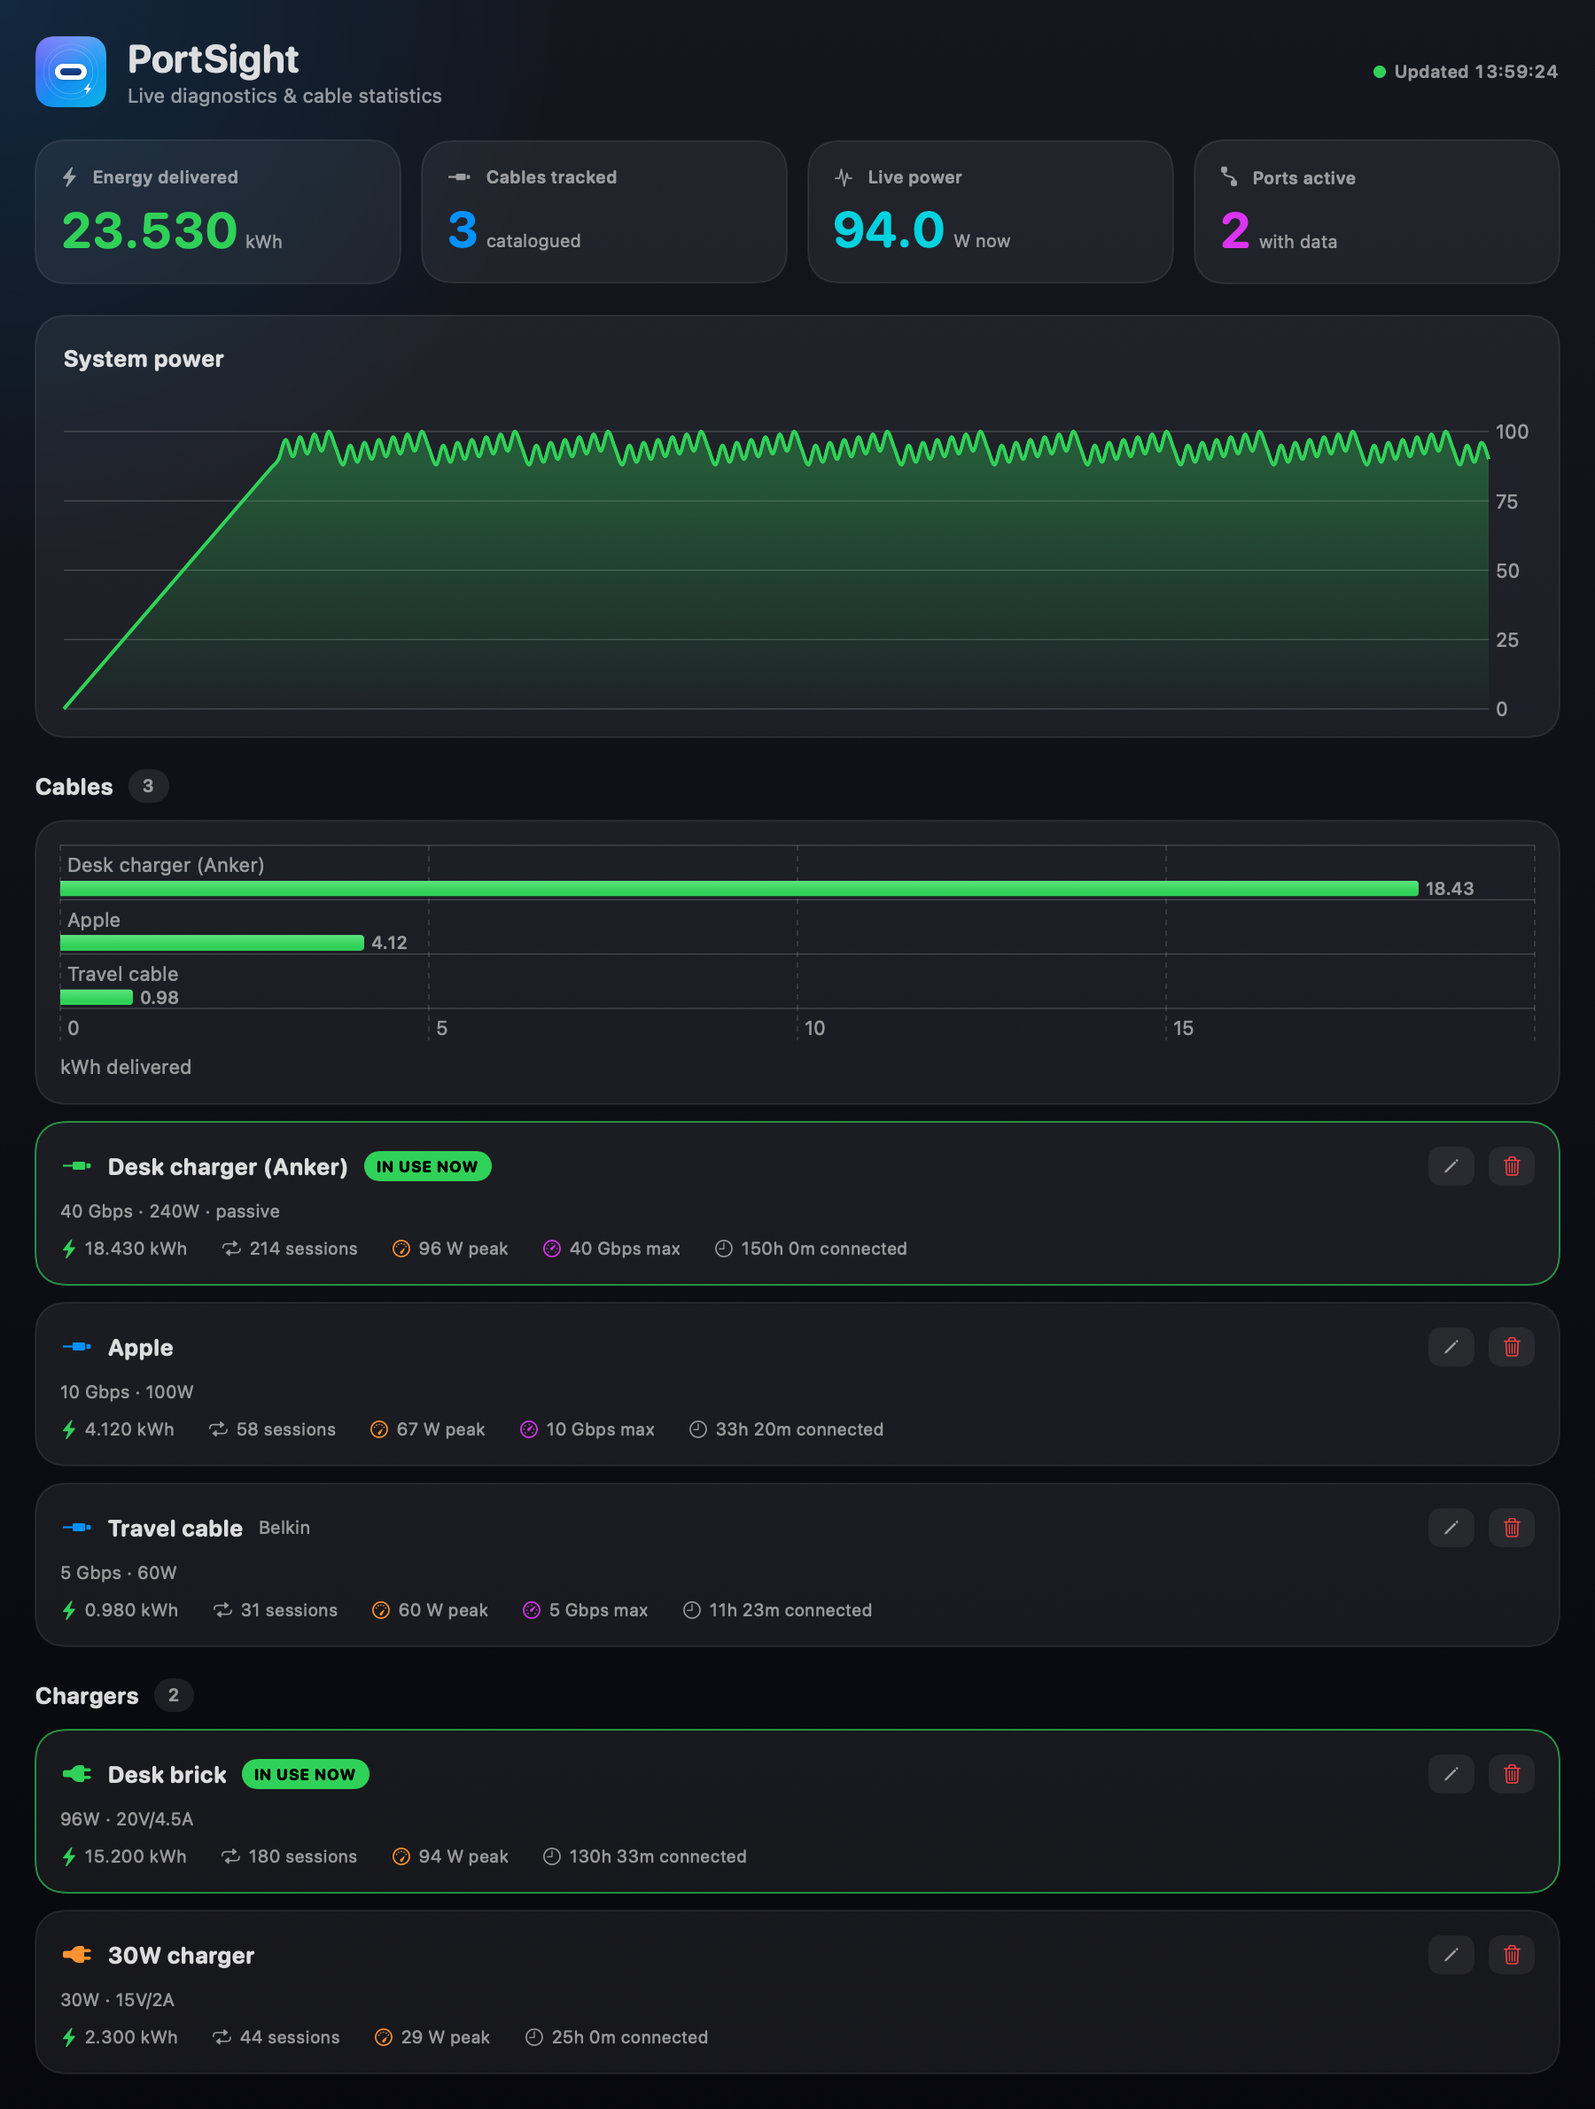
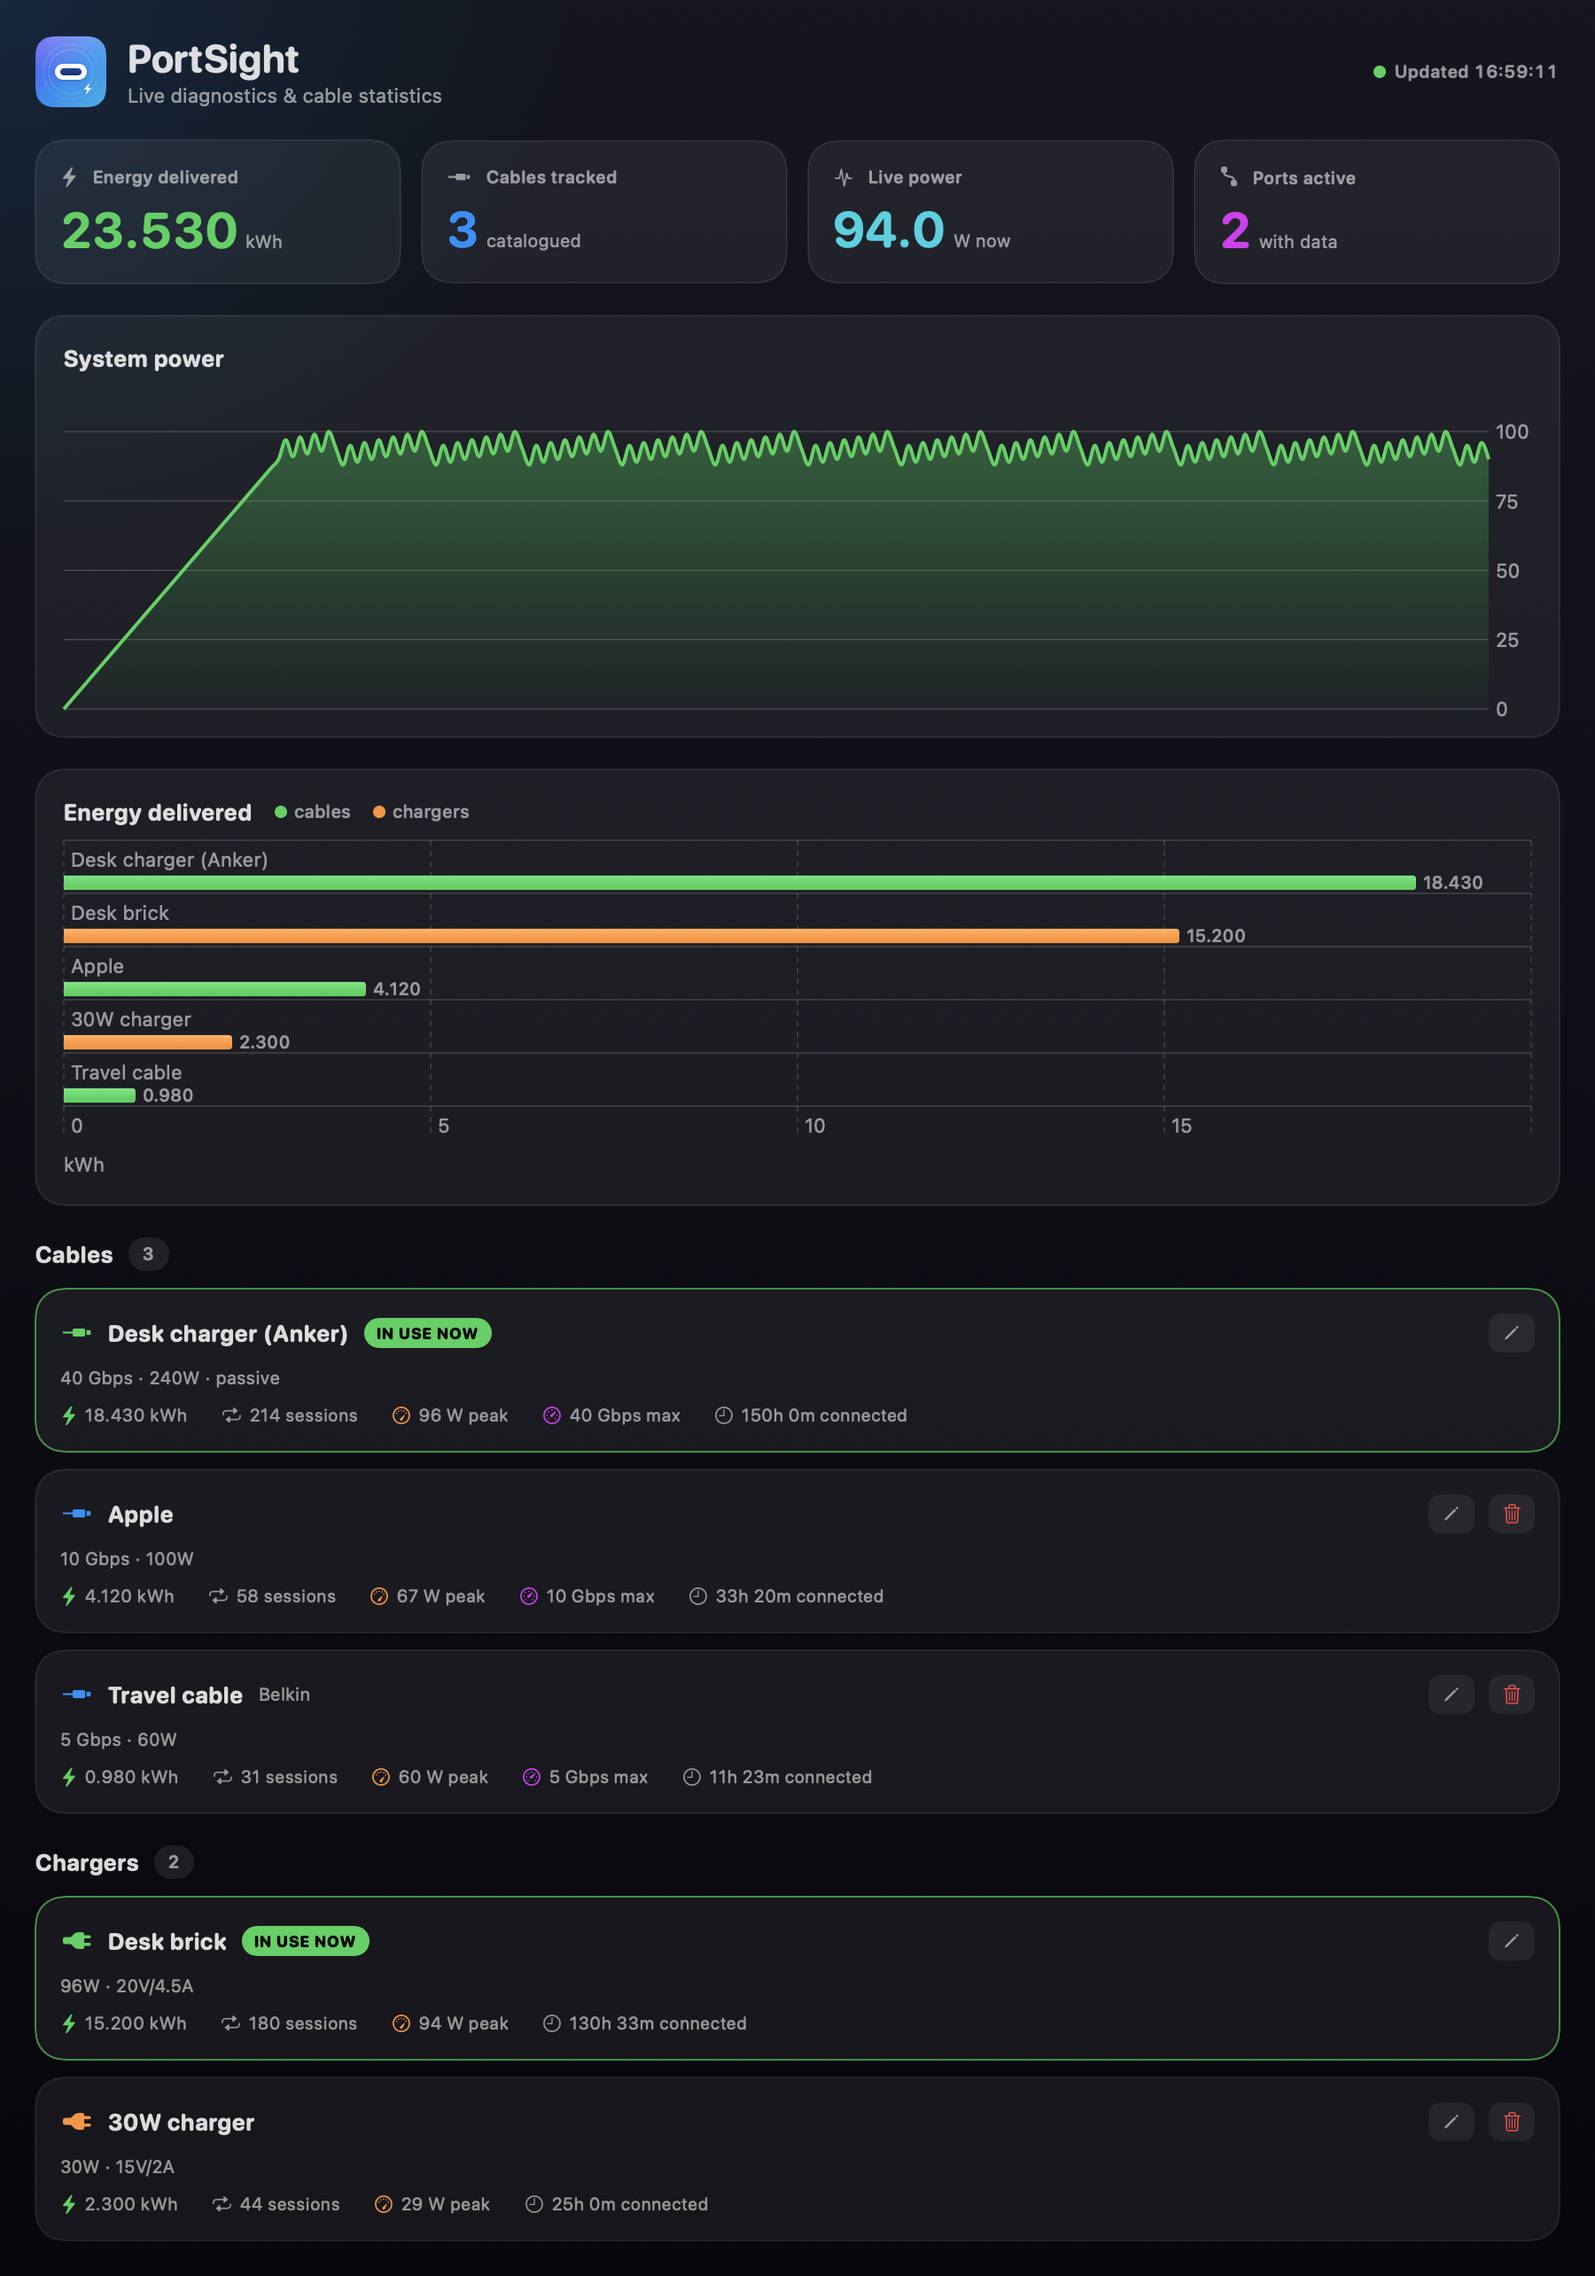
Fix charger dedup (stable VID+PID key + auto-clean); block deleting the in-use cable/charger; combined cables+chargers energy chart

diff --git a/Sources/CableProUI/DashboardView.swift b/Sources/CableProUI/DashboardView.swift
@@ -33,6 +33,7 @@ public struct DashboardView: View {
             header
             statsRow
             powerChartCard
+            energyChartCard
             cablesSection
             chargersSection
         }
@@ -139,25 +140,62 @@ public struct DashboardView: View {
                     .frame(maxWidth: .infinity, alignment: .leading)
                     .padding(20).cardSurface()
             } else {
-                // Energy bar chart across cables.
-                Chart(store.all) { rec in
-                    BarMark(x: .value("kWh", rec.totalEnergyKWh),
-                            y: .value("Cable", rec.displayName))
-                        .foregroundStyle(.green.gradient)
-                        .annotation(position: .trailing) {
-                            Text(String(format: "%.2f", rec.totalEnergyKWh))
-                                .font(.caption2).foregroundStyle(.secondary)
-                        }
-                }
-                .chartXAxisLabel("kWh delivered")
-                .frame(height: CGFloat(store.all.count) * 34 + 30)
-                .padding(14).cardSurface()
-
                 ForEach(sortedCables) { rec in
                     CableRow(record: rec, store: store,
                              isConnected: model.connectedCableKeys.contains(rec.fingerprint))
                 }
             }
+        }
+    }
+
+    // MARK: energy delivered (cables + chargers)
+
+    struct EnergyBar: Identifiable {
+        let id: String
+        let label: String
+        let kWh: Double
+        let isCharger: Bool
+    }
+
+    private var energyBars: [EnergyBar] {
+        let cables = store.all.map {
+            EnergyBar(id: "cable-\($0.fingerprint)", label: $0.displayName,
+                      kWh: $0.totalEnergyKWh, isCharger: false)
+        }
+        let chargers = store.allChargers.map {
+            EnergyBar(id: "charger-\($0.fingerprint)", label: $0.displayName,
+                      kWh: $0.totalEnergyKWh, isCharger: true)
+        }
+        return (cables + chargers).sorted { $0.kWh > $1.kWh }
+    }
+
+    @ViewBuilder private var energyChartCard: some View {
+        if !energyBars.isEmpty {
+            VStack(alignment: .leading, spacing: 8) {
+                HStack(spacing: 12) {
+                    Text("Energy delivered").font(.system(.headline, design: .rounded))
+                    legendDot(.green, "cables"); legendDot(.orange, "chargers")
+                    Spacer()
+                }
+                Chart(energyBars) { bar in
+                    BarMark(x: .value("kWh", bar.kWh), y: .value("Source", bar.label))
+                        .foregroundStyle((bar.isCharger ? Color.orange : .green).gradient)
+                        .annotation(position: .trailing) {
+                            Text(String(format: "%.3f", bar.kWh))
+                                .font(.caption2).foregroundStyle(.secondary)
+                        }
+                }
+                .chartXAxisLabel("kWh")
+                .frame(height: CGFloat(energyBars.count) * 32 + 30)
+            }
+            .padding(16).cardSurface()
+        }
+    }
+
+    private func legendDot(_ color: Color, _ text: String) -> some View {
+        HStack(spacing: 4) {
+            Circle().fill(color).frame(width: 7, height: 7)
+            Text(text).font(.caption2).foregroundStyle(.secondary)
         }
     }
 
@@ -214,9 +252,11 @@ struct ChargerRow: View {
                 Button { draftName = record.name ?? ""; renaming = true } label: {
                     iconChip("pencil", .secondary)
                 }.buttonStyle(.plain)
-                Button { store.forgetCharger(record.fingerprint) } label: {
-                    iconChip("trash", .red)
-                }.buttonStyle(.plain)
+                if !isConnected {
+                    Button { store.forgetCharger(record.fingerprint) } label: {
+                        iconChip("trash", .red)
+                    }.buttonStyle(.plain)
+                }
             }
             if !record.descriptor.isEmpty {
                 Text(record.descriptor).font(.caption).foregroundStyle(.secondary)
@@ -285,9 +325,11 @@ struct CableRow: View {
                 Button { draftName = record.name ?? ""; renaming = true } label: {
                     iconChip("pencil", .secondary)
                 }.buttonStyle(.plain)
-                Button { store.forget(record.fingerprint) } label: {
-                    iconChip("trash", .red)
-                }.buttonStyle(.plain)
+                if !isConnected {
+                    Button { store.forget(record.fingerprint) } label: {
+                        iconChip("trash", .red)
+                    }.buttonStyle(.plain)
+                }
             }
             if !record.descriptor.isEmpty {
                 Text(record.descriptor).font(.caption).foregroundStyle(.secondary)

diff --git a/Sources/CableProUI/CableStore.swift b/Sources/CableProUI/CableStore.swift
@@ -189,7 +189,10 @@ public final class CableStore: ObservableObject {
         guard let data = try? Data(contentsOf: url) else { return }
         if let p = try? JSONDecoder().decode(Persisted.self, from: data) {
             records = p.cables
-            chargers = p.chargers
+            // Drop charger records saved under an old, unstable key scheme so the
+            // catalog self-heals to one entry per charger (keyed by VID+PID).
+            chargers = p.chargers.filter { $0.key.range(of: ChargerIdentity.keyRegex,
+                                                        options: .regularExpression) != nil }
         } else if let old = try? JSONDecoder().decode([String: CableRecord].self, from: data) {
             records = old   // migrate pre-charger format
         }
@@ -255,45 +258,40 @@ public enum ChargerIdentity {
     /// Discover Identity (`partner`, the SOP port-partner): its VID maps to a
     /// manufacturer via the USB-IF DB, and the Cert-Stat XID acts as a
     /// (model-level) ID. Watts/PD profile come from `adapter` (AdapterDetails).
+    /// Canonical charger key: "chg-<vid>-<pid>" (lowercase hex). Stable across
+    /// reconnects and across watt renegotiations of the same charger.
+    static let keyRegex = "^chg-[0-9a-f]{4}-[0-9a-f]{4}$"
+
     public static func make(adapter: AdapterInfo?, partner: USBPDSOP?)
         -> (key: String, label: String, descriptor: String)? {
-        let watts = adapter?.watts
-        guard watts != nil || partner != nil else { return nil }
+        // Require the PD Discover Identity: its VID+PID is the only stable key.
+        // (AdapterDetails watts fluctuate — e.g. a monitor negotiating 60↔90W —
+        // so keying on them spawns duplicates.) Chargers that don't advertise a
+        // PD identity aren't catalogued.
+        guard let p = partner else { return nil }
 
-        // Brand + IDs from the PD port-partner identity.
-        var brand: String?
-        var vidHex: String?
-        var xidHex: String?
-        if let p = partner {
-            brand = CableDB.vendorName(vid: p.vendorID)
-            vidHex = String(format: "0x%04X", p.vendorID)
-            if let cs = p.certStatVDO, cs.isPresent { xidHex = String(format: "0x%08X", cs.xid) }
-        }
-        if brand == nil { brand = adapter?.manufacturer ?? adapter?.name }
+        let brand = CableDB.vendorName(vid: p.vendorID) ?? adapter?.manufacturer ?? adapter?.name
+        let vidHex = String(format: "0x%04X", p.vendorID)
+        let xidHex: String? = (p.certStatVDO.flatMap { $0.isPresent ? String(format: "0x%08X", $0.xid) : nil })
 
-        // STABLE fingerprint: use AdapterDetails (available from the first tick)
-        // so the record doesn't change key once the PD brand arrives a moment
-        // later — the brand only enriches the label. Fall back to the PD VID/PID
-        // only when there's no AdapterDetails at all.
-        let key: String
-        if let a = adapter, let w = a.watts {
-            key = "chg-\(w)-\(a.familyCode ?? 0)-\(a.adapterID ?? 0)-\(a.pmuConfiguration ?? 0)"
-        } else if let p = partner {
-            key = String(format: "chg-%04x-%04x", p.vendorID, p.productID)
-        } else {
-            return nil
-        }
+        // Rated (max) watts from the charger's PD/HVC profile menu, so the label
+        // stays put instead of flipping with the momentary negotiated contract.
+        let maxW: Int? = {
+            let hvcMax = adapter?.hvcMenu.map(\.wattsInt).max() ?? 0
+            let w = max(hvcMax, adapter?.watts ?? 0)
+            return w > 0 ? w : nil
+        }()
 
-        let wattLabel = watts.map { "\($0)W" }
-        let label = [brand, wattLabel].compactMap { $0 }.joined(separator: " ")
+        let key = String(format: "chg-%04x-%04x", p.vendorID, p.productID)
+        let label = [brand, maxW.map { "\($0)W" }].compactMap { $0 }.joined(separator: " ")
         let finalLabel = label.isEmpty ? "USB-C charger" : label
 
         var parts: [String] = []
-        if let w = watts { parts.append("\(w)W") }
+        if let w = maxW { parts.append("\(w)W") }
         if let v = adapter?.voltageMV, let c = adapter?.currentMA, v > 0, c > 0 {
             parts.append(String(format: "%.0fV/%.1fA", Double(v) / 1000, Double(c) / 1000))
         }
-        if let vh = vidHex { parts.append("VID \(vh)") }
+        parts.append("VID \(vidHex)")
         if let x = xidHex { parts.append("ID \(x)") }
         return (key, finalLabel, parts.joined(separator: " · "))
     }
